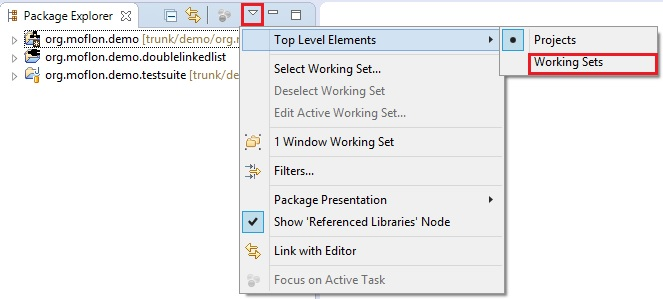
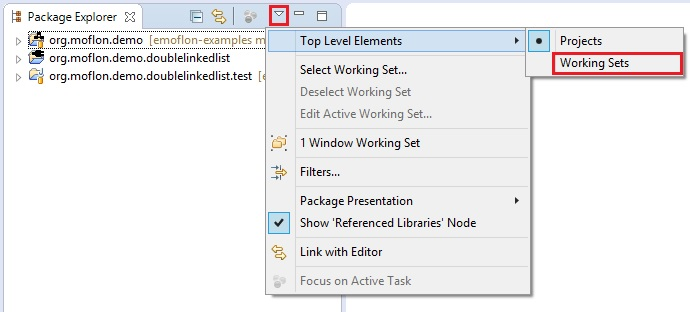
Updated some pictures and names in the text.

Changed region(s): [[0.0, 0.0, 1.0, 1.0]]

diff --git a/Handbook/org.moflon.doc.handbook.01_installation/4_projectSetup/modelingWithEA/EAWorkspace.tex b/Handbook/org.moflon.doc.handbook.01_installation/4_projectSetup/modelingWithEA/EAWorkspace.tex
@@ -80,11 +80,11 @@ Now switch back to your Eclipse workspace and note the two nodes named \texttt{S
 These nodes, used to group related \emph{Eclipse projects} in an Eclipse workspace, are called \emph{working sets}. The working set
 \texttt{Spe\-ci\-fi\-ca\-tions} contains all \emph{metamodel projects} in a  workspace. Your metamodel project contains a single EAP (EA project) file and is
 used to communicate with EA and initiate code generation by simply pressing \texttt{F5} or choosing \texttt{Refresh} from the context menu. In our case,
-\texttt{Specifications} should contain a single metamodel project \texttt{Demo} containing our EA project file  \texttt{Demo.eap}.
+\texttt{Specifications} should contain a single metamodel project \texttt{org.moflon.demo} containing our EA project file \texttt{org.moflon.demo.eap}.
  
-\Cref{fig:fromEAtoEclipse} depicts how the Eclipse working set \texttt{Demo} and its contents were generated from the EA model \texttt{Demo}. Every model
+\Cref{fig:fromEAtoEclipse} depicts how the Eclipse working set \texttt{org.moflon.demo} and its contents were generated from the EA model \texttt{org.moflon.demo}. Every model
 in EA is mapped to a working set in Eclipse with the same name. From every package in the EA model, an Eclipse project is generated, also with the same name.
-\LK{Fix names and screenshot (does not match previous figure)}
+%\LK{Fix names and screenshot (does not match previous figure)}
 
 \begin{figure}[htbp]
     \centering

diff --git a/Handbook/org.moflon.doc.handbook.01_installation/3_validate/validateJUnitSrc.tex b/Handbook/org.moflon.doc.handbook.01_installation/3_validate/validateJUnitSrc.tex
@@ -15,7 +15,7 @@
 \end{figure}
 
 \item[$\blacktriangleright$]
-Locate \menuPath{Other Projects \menuSep org.moflon.demo.testsuite}.
+Locate \menuPath{Other Projects \menuSep org.moflon.demo.doublelinkedlist.test}.
 This is the testsuite imported with the demo files to make sure everything has been installed and set up correctly.
 Right click on the project to bring up the context menu and go to \menuPath{Run As \menuSep JUnit Test}.
 If anything goes wrong, try refreshing by choosing your metamodel project and pressing \entity{F5}, or right-clicking and selecting \entity{Refresh}.
